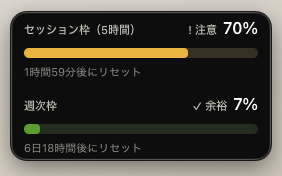
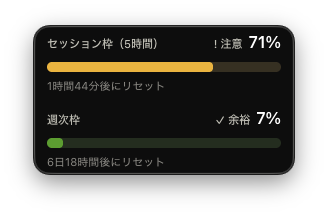
docs: スクリーンショットをウィンドウID指定で撮り直し
前回は全画面キャプチャから目測の座標で矩形に切り出していたため、
角丸のところにデスクトップが写り込み、端も欠けていた。

正しい手順に変更:
- Swift + CGWindowListCopyWindowInfo でウィンドウIDと正確なバウンズを取得
- ウィンドウは `screencapture -l<windowid>` で撮る
  → OS が角丸・影・透過ごと切り出すので座標計算が不要になる
- メニューバー項目は -l だと背景が透過して白地で読めないため、
  取得した正確な座標で `-R` の領域指定に切り替え
- メニューバー高さは NSScreen の frame と visibleFrame の差から取得（30px）。
  目測の 40px では下に壁紙が 10px 入っていた

調査で判明したこと:
- ディスプレイ2枚が縦に並んでおり、ステータス項目は上側（y=-2160）にあった。
  表示中のメニューバーに追従して動くため、撮影直前に座標を取り直す必要がある
- backingScale=1.0（Retina ではない）ため画像は等倍

diff --git a/README.md b/README.md
@@ -4,16 +4,16 @@ Claude Code の使用量を、ブラウザで claude.ai を開かずに **メニ
 
 **メニューバー** — 消費率が常に見えます。色は 〜50% 緑 / 〜80% 橙 / 80%〜 赤。
 
-<img src="docs/images/menubar.png" alt="メニューバーに 5h 70% · 7d 7% と表示されている" width="248">
+<img src="docs/images/menubar.png" alt="メニューバーに 5h 71% · 7d 7% と表示されている" width="156">
 
 **ミニウィンドウ** — デスクトップに置いておける小窓。ドラッグで移動できます。
 
-<img src="docs/images/mini.png" alt="セッション枠 70%（注意）と週次枠 7%（余裕）を表示するミニウィンドウ" width="282">
+<img src="docs/images/mini.png" alt="セッション枠 71%（注意）と週次枠 7%（余裕）を表示するミニウィンドウ" width="328">
 
 **パネル** — メニューバーのアイコンをクリックすると開きます。下にスクロールすると
 モデル別内訳・トークン内訳・直近7日のバーチャートが続きます。
 
-<img src="docs/images/panel.png" alt="使用量パネル。セッション枠 70%、週次枠 7%、今日の推定コスト $216" width="400">
+<img src="docs/images/panel.png" alt="使用量パネル。セッション枠 71%、週次枠 7%、今日の推定コスト $231" width="512">
 
 見られるもの:
 
